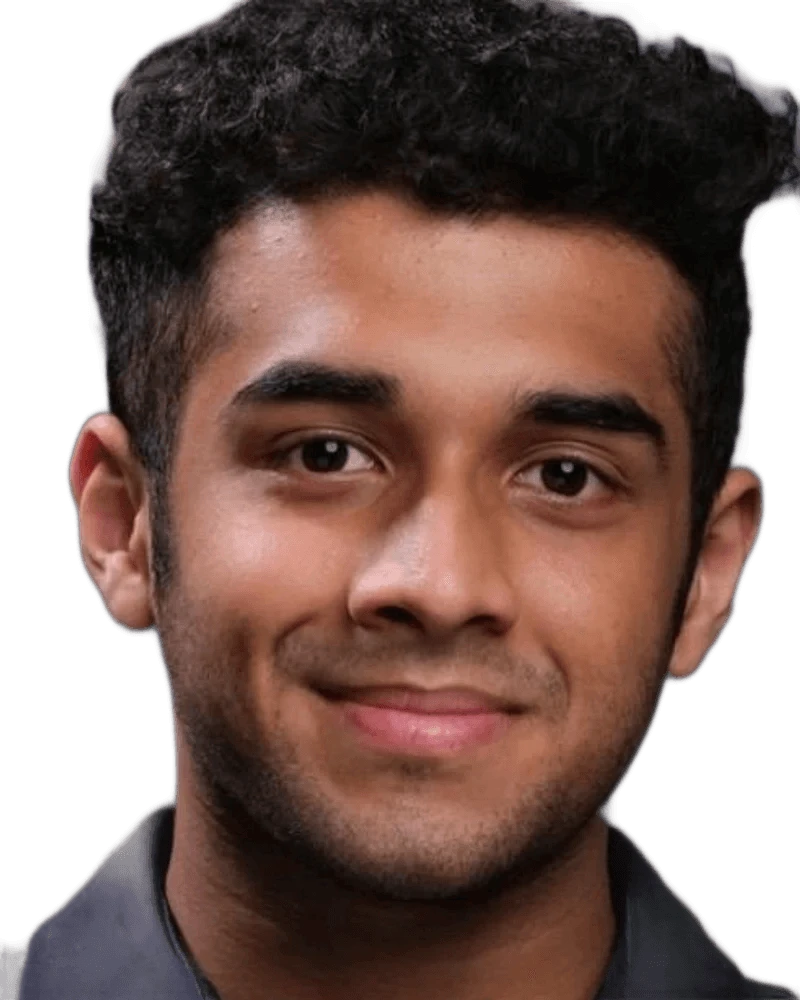
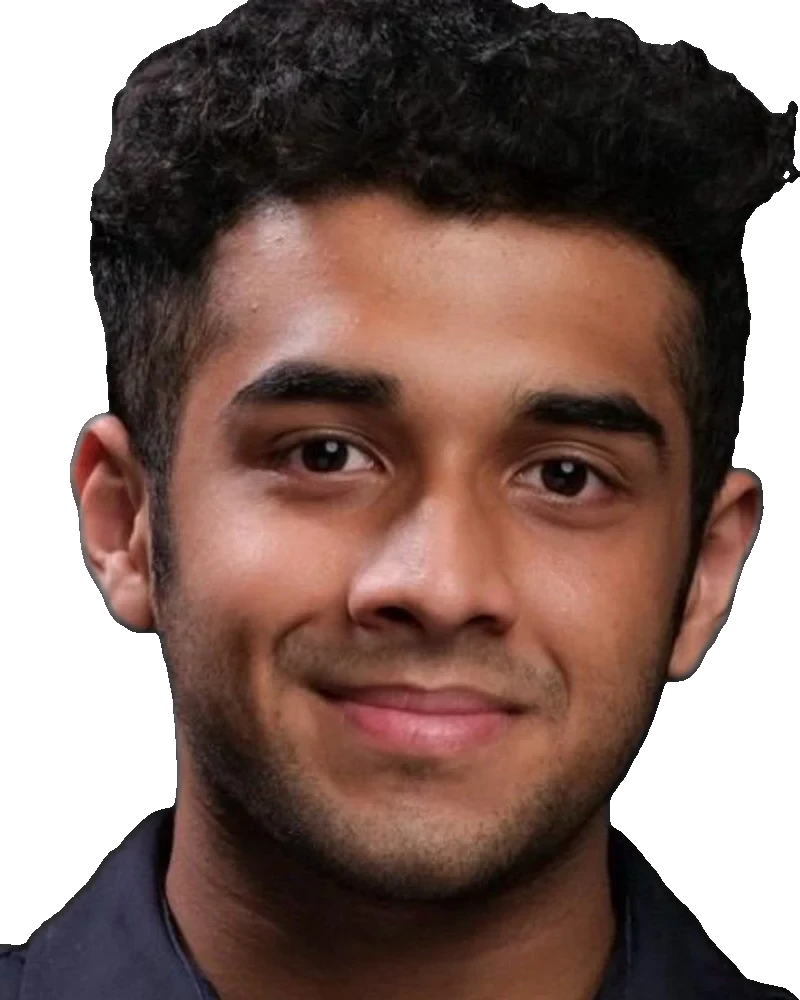
c4 inroads

diff --git a/src/data/c4Inroads.ts b/src/data/c4Inroads.ts
@@ -20,27 +20,27 @@ export const C4_INROADS: InroadsStartup[] = [
     sector: "Consumer",
     description:
       "A consumer startup building ₹5 caffeine sachets for quick, convenient energy and alertness — without tobacco or nicotine.",
-    founders: [{ name: "Ishaan Panchal", role: "Founder", photo: "/c4_inroads/ishaan-panchal.webp" }],
+    founders: [{ name: "Ishaan Panchal", role: "Founder", photo: "/c4_inroads/cutout/ishaan-panchal.webp" }],
   },
   {
     startup: "Skillhance",
     sector: "EdTech",
     description: "A trusted, learner-first platform for discovering, comparing and choosing education programs.",
-    founders: [{ name: "Honey Gupta", role: "Founder", photo: "/c4_inroads/honey-gupta.webp" }],
+    founders: [{ name: "Honey Gupta", role: "Founder", photo: "/c4_inroads/cutout/honey-gupta.webp" }],
   },
   {
     startup: "Alfred Scholar",
     sector: "Research Tech",
     description:
       "Streamlines the researcher's workflow into one place — gather research, then write your own papers confidently and securely.",
-    founders: [{ name: "Bhushan", role: "Founder", photo: "/c4_inroads/bhushan.webp" }],
+    founders: [{ name: "Bhushan", role: "Founder", photo: "/c4_inroads/cutout/bhushan.webp" }],
   },
   {
     startup: "Praroh",
     sector: "AgriTech",
     description:
       "Growing organic, pesticide-free produce year-round in controlled greenhouses, using 60–70% less water than conventional farming.",
-    founders: [{ name: "Dhruv Chandan", role: "Founder", photo: "/c4_inroads/dhruv-chandan.webp" }],
+    founders: [{ name: "Dhruv Chandan", role: "Founder", photo: "/c4_inroads/cutout/dhruv-chandan.webp" }],
   },
   {
     startup: "Athanni",
@@ -48,27 +48,27 @@ export const C4_INROADS: InroadsStartup[] = [
     sector: "FinTech",
     description:
       "The one-stop solution for freelancers to secure their payments and run the back office of their personal brand.",
-    founders: [{ name: "Vedant Yadav", role: "Founder", photo: "/c4_inroads/vedant-yadav.webp" }],
+    founders: [{ name: "Vedant Yadav", role: "Founder", photo: "/c4_inroads/cutout/vedant-yadav.webp" }],
   },
   {
     startup: "SudoSquad Club",
     sector: "Gaming",
     description: "Takes the Sudoku people already know and makes it something they can play with others.",
-    founders: [{ name: "Ashish Bajaj", role: "Founder", photo: "/c4_inroads/ashish-bajaj.webp" }],
+    founders: [{ name: "Ashish Bajaj", role: "Founder", photo: "/c4_inroads/cutout/ashish-bajaj.webp" }],
   },
   {
     startup: "Sauce It Up",
     sector: "Food & Beverage",
     description:
       "Protein-rich sauces and dips for consumers who want great taste without compromising on nutrition.",
-    founders: [{ name: "Adit Shah", role: "Founder", photo: "/c4_inroads/adit-shah.webp" }],
+    founders: [{ name: "Adit Shah", role: "Founder", photo: "/c4_inroads/cutout/adit-shah.webp" }],
   },
   {
     startup: "Beta",
     startupFull: "Beta by Digimuse",
     sector: "Creator Economy",
     description: "The platform brands use to price and evaluate creators with data instead of guesswork.",
-    founders: [{ name: "Srishiv Patro", role: "Founder", photo: "/c4_inroads/srishiv-patro.webp" }],
+    founders: [{ name: "Srishiv Patro", role: "Founder", photo: "/c4_inroads/cutout/srishiv-patro.webp" }],
   },
   {
     startup: "House of Indian Spirits",
@@ -76,8 +76,8 @@ export const C4_INROADS: InroadsStartup[] = [
     description:
       "Building the brand infrastructure to take India's indigenous spirits from fragmented local products to standardized consumer brands.",
     founders: [
-      { name: "Karan Menon", role: "Co-founder", photo: "/c4_inroads/karan-menon.webp" },
-      { name: "Aryan Wadhwa", role: "Co-founder", photo: "/c4_inroads/aryan-wadhwa.webp" },
+      { name: "Karan Menon", role: "Co-founder", photo: "/c4_inroads/cutout/karan-menon.webp" },
+      { name: "Aryan Wadhwa", role: "Co-founder", photo: "/c4_inroads/cutout/aryan-wadhwa.webp" },
     ],
   },
 ];

diff --git a/src/components/c4-inroads/InroadsShow.tsx b/src/components/c4-inroads/InroadsShow.tsx
@@ -157,7 +157,7 @@ export default function InroadsShow() {
                 className="group relative shrink-0 rounded-[9px] focus-visible:outline-2 focus-visible:outline-offset-2 focus-visible:outline-[#22C891]"
               >
                 <span
-                  className={`relative flex h-11 overflow-hidden rounded-[9px] border-[1.5px] transition-colors duration-300 sm:h-14 ${
+                  className={`relative flex h-11 overflow-hidden rounded-[9px] border-[1.5px] bg-linear-to-b from-[#041A13] to-[#0F6B4C] transition-colors duration-300 sm:h-14 ${
                     s.founders.length > 1 ? "w-14 sm:w-[72px]" : "w-9 sm:w-11"
                   } ${on ? "border-[#22C891]" : "border-white/10 group-hover:border-white/40"}`}
                 >
@@ -344,7 +344,7 @@ function Finale({ onPick }: { onPick: (i: number) => void }) {
               onClick={() => onPick(C4_INROADS.findIndex((s) => s.startup === f.startup))}
               className="group w-full text-left focus-visible:outline-2 focus-visible:outline-offset-4 focus-visible:outline-[#22C891]"
             >
-              <span className="relative block aspect-[4/5] overflow-hidden rounded-[10px] border-[1.5px] border-[#22C891]/40 transition-colors group-hover:border-[#22C891]">
+              <span className="relative block aspect-4/5 overflow-hidden rounded-[10px] border-[1.5px] border-[#22C891]/40 bg-linear-to-b from-[#041A13] to-[#0F6B4C] transition-colors group-hover:border-[#22C891]">
                 <Image src={f.photo} alt="" fill sizes="(min-width: 640px) 170px, 20vw" className="object-cover" />
               </span>
               <span className="mt-2 block truncate text-[10px] font-semibold sm:text-sm">{f.name}</span>

diff --git a/src/components/c4-inroads/InroadsScene.tsx b/src/components/c4-inroads/InroadsScene.tsx
@@ -58,7 +58,12 @@ const cardFragment = /* glsl */ `
     float d = sdRoundBox(p, vec2(0.4, 0.5), 0.06);
     float inside = 1.0 - smoothstep(-0.0015, 0.0015, d);
 
-    vec3 col = texture2D(uTex, vUv).rgb;
+    // Founders are background-removed cutouts: sit them on a deep-green panel
+    // that lifts toward mint at the bottom, like stage light from below.
+    vec4 tex = texture2D(uTex, vUv);
+    vec3 panel = mix(vec3(0.016, 0.1, 0.075), vec3(0.06, 0.42, 0.3), smoothstep(0.95, 0.0, vUv.y));
+    panel += uMint * 0.18 * smoothstep(0.55, 0.0, length((vUv - vec2(0.5, 0.62)) * vec2(1.0, 0.8)));
+    vec3 col = mix(panel, tex.rgb, tex.a);
 
     // Inner mint keyline, same weight relationship as the logo frame.
     float line = smoothstep(0.004, 0.0, abs(d + 0.012));
